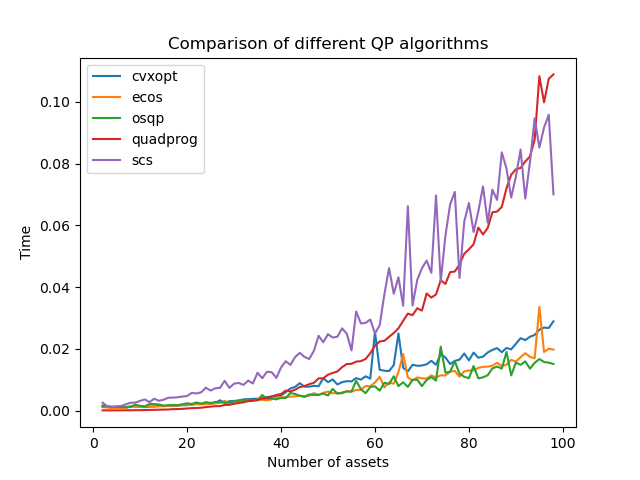
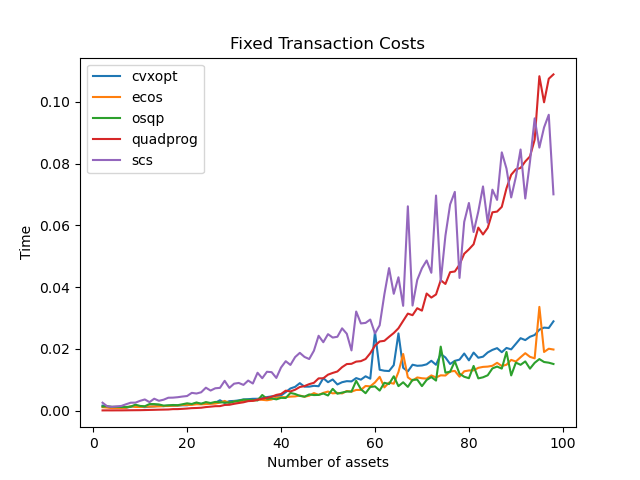
Updated plots

Changed region(s): [[0.25, 0.0625, 0.75, 0.125]]

diff --git a/plotting.py b/plotting.py
@@ -14,26 +14,26 @@ plt.figure()
 basic_df.plot()
 plt.xlabel('Number of assets')
 plt.ylabel('Time')
-plt.title('Comparison of different QP algorithms')
+plt.title('Basic Markowitz Problem')
 plt.savefig('basics.png')
 
 plt.figure()
 short_df.plot()
 plt.xlabel('Number of assets')
 plt.ylabel('Time')
-plt.title('Comparison of different QP algorithms')
+plt.title('Short Sales Constraints')
 plt.savefig('short.png')
 
 plt.figure()
 fixed_df.plot()
 plt.xlabel('Number of assets')
 plt.ylabel('Time')
-plt.title('Comparison of different QP algorithms')
+plt.title('Fixed Transaction Costs')
 plt.savefig('fixed.png')
 
 plt.figure()
 variable_df.plot()
 plt.xlabel('Number of assets')
 plt.ylabel('Time')
-plt.title('Comparison of different QP algorithms')
+plt.title('Variable Transactions Costs')
 plt.savefig('variable.png')
